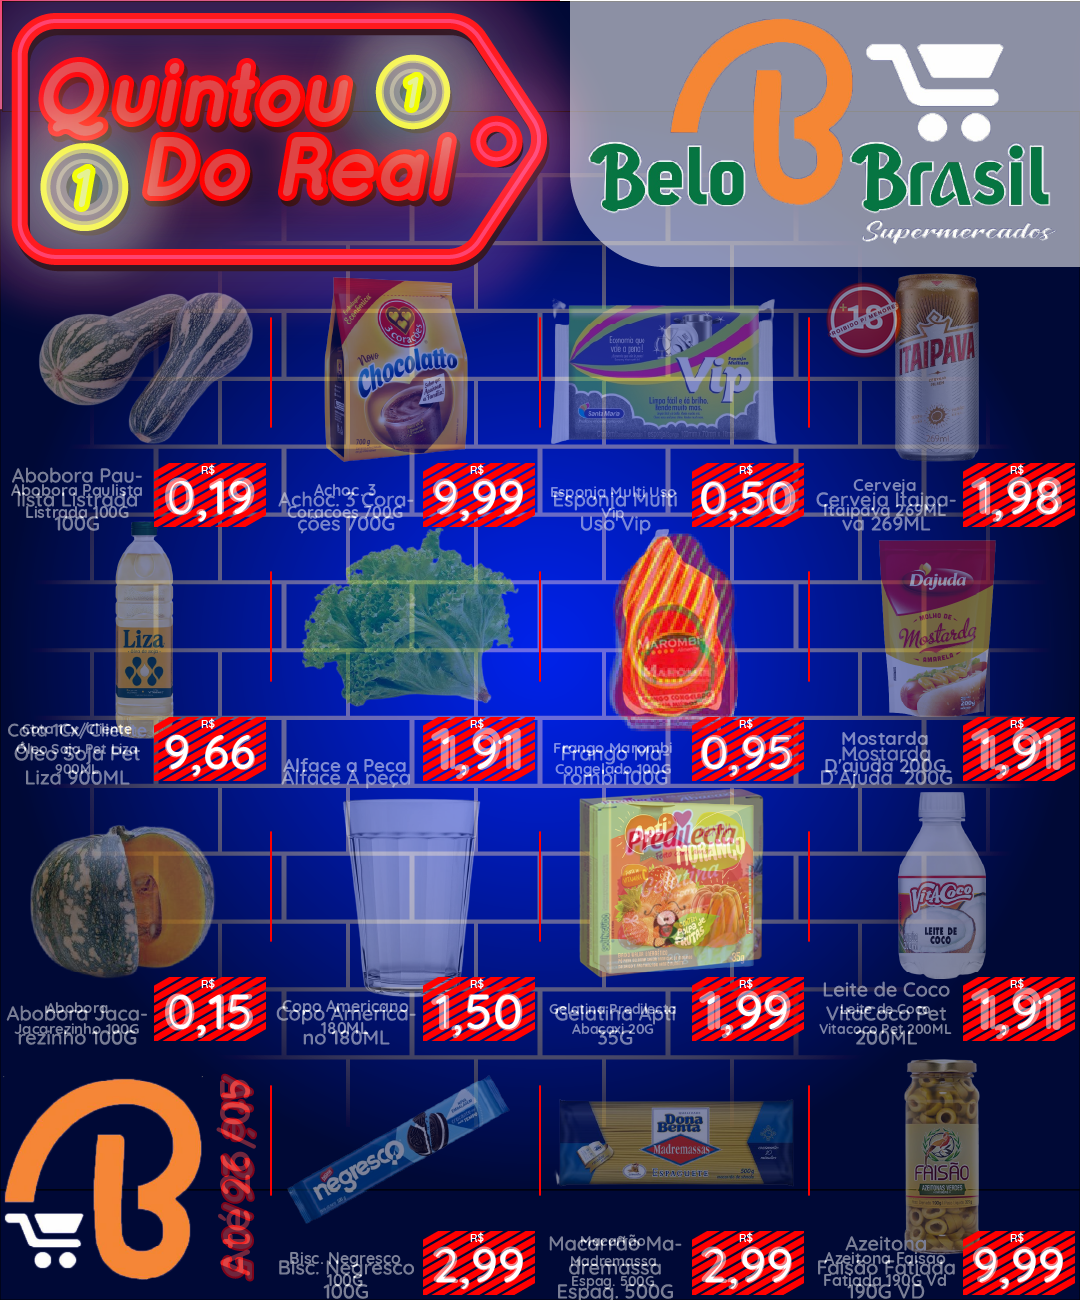
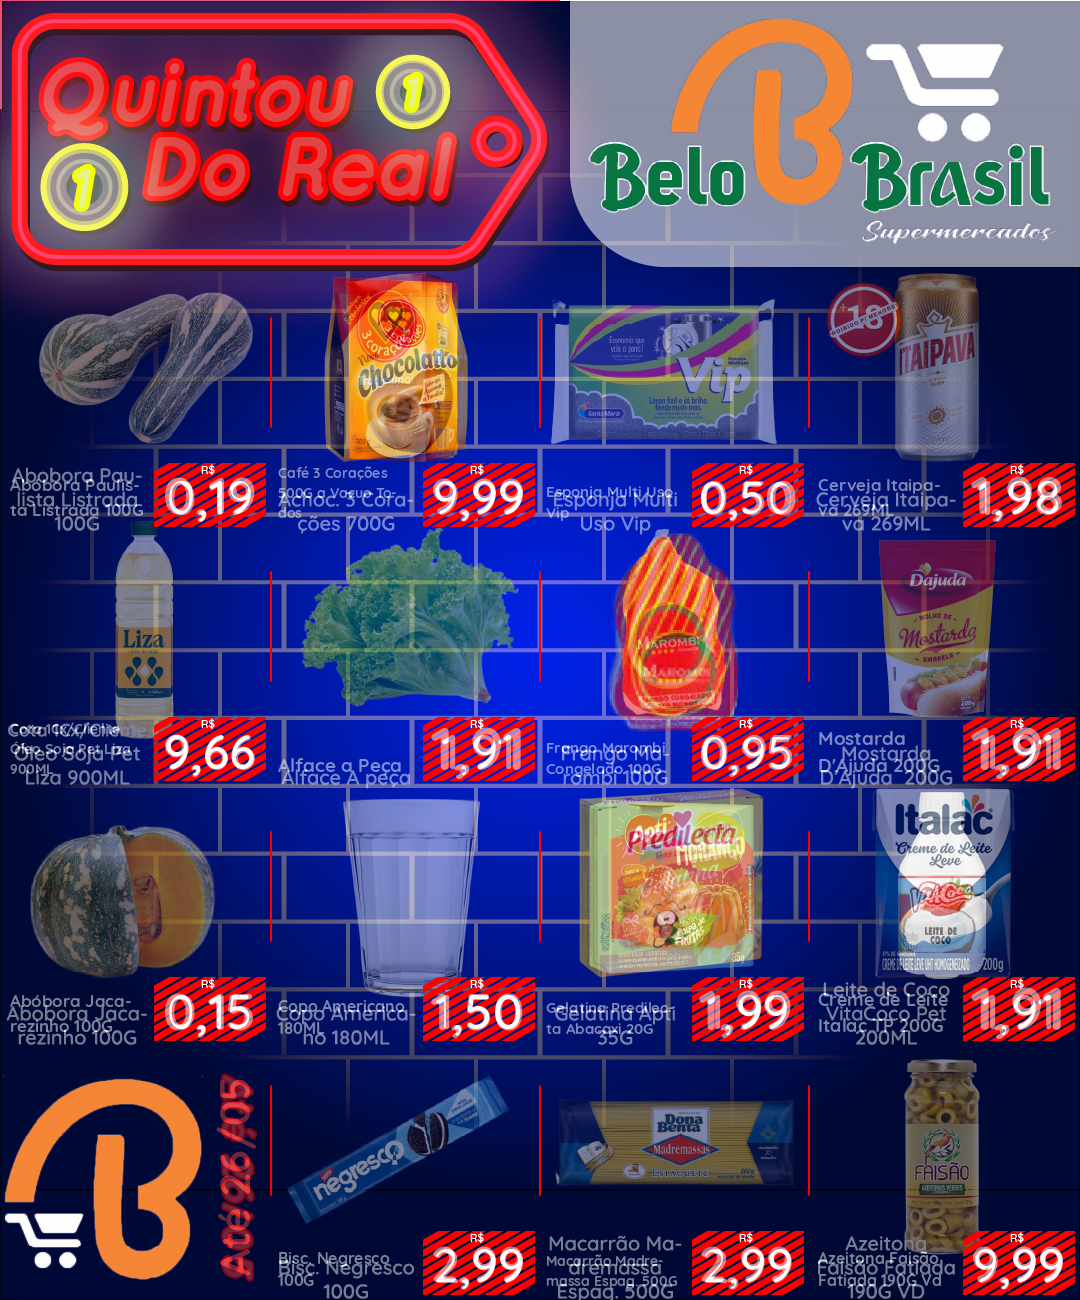
F13 ORDEM VICESIMUS-SEPTIMUS (05/08): O NOME A ESQUERDA E A ESCADA - os tres achados dos TEXTOS depois de o numero fechar, mais a ERRATA do proprio arquiteto. (§3, primeiro, porque invalida o resto) A REGUA ESTAVA TORTA: arte/quintou/ofertas_frente.txt - a transcricao a mao da peca, que alimenta a p

diff --git a/app/tests/test_vsextus.py b/app/tests/test_vsextus.py
@@ -133,6 +133,68 @@ def test_vsextus_hierarquia_nao_inverte(tmp_path, monkeypatch):
         f"a hierarquia inverteu (nome {alt_nome}px × preço {alt_preco}px)")
 
 
+# ============================================== VICESIMUS-SEPTIMUS
+# A ESCADA: cabe? desenha. Não? abrevia. Não? hifeniza. Só então reduz.
+# ==================================================================
+
+
+def test_vseptimus_a_escada_abrevia_antes_de_reduzir(tmp_path):
+    """§2: o degrau 2 existia (glossário RG-22) mas fora da cadeia —
+    a abreviação era decisão PRÉVIA (abreviava mesmo quando cabia) ou
+    nada. Agora: nome completo se couber; se não couber, o abreviado
+    do glossário entra ANTES de o corpo ceder."""
+    from app.rendering.model import (Alinhamento, AlinhamentoV, Regiao,
+                                     Retangulo, TipoRegiao)
+    from app.rendering.nome_fit import precedencia_do_nome
+
+    fontes = _fontes_reais(tmp_path)
+    nome_f = next(fontes.glob("*.ttf")).name
+    # a caixa MEDIDA que discrimina os dois (o completo não cabe nem
+    # hifenizado; o abreviado cabe) — sem ela o teste não testa nada
+    reg = Regiao(TipoRegiao.NOME, Retangulo(0, 0, 26, 11), fonte=nome_f,
+                 tamanho_max_pt=12.0, tamanho_min_pt=8.0,
+                 alinhamento=Alinhamento.ESQUERDA,
+                 alinhamento_v=AlinhamentoV.TOPO)
+    longo = "Achocolatado 3 Corações Tradicional 700 g"
+    curto = "Achoc. 3 Corações 700 g"
+    aj = precedencia_do_nome(longo, None, None, [reg], 96, fontes,
+                             nome_abreviado=curto)
+    assert aj is not None and aj.nome == curto, aj
+    # e o que CABE inteiro nunca é abreviado (a lei v4 do dono)
+    aj2 = precedencia_do_nome("Alface", None, None, [reg], 96, fontes,
+                              nome_abreviado="Alf.")
+    assert aj2 is None or aj2.nome == "Alface", aj2
+
+
+def test_vseptimus_o_quintou_hifeniza_e_alinha_a_esquerda():
+    """§1+§2: o publicado alinha o nome à ESQUERDA e HIFENIZA
+    ("Pau-lista", "Cora-ções"); o sem_hifen do T5 nasceu de ler o
+    hífen do PRÓPRIO dono como artefato."""
+    from app.rendering.encartes import layout_de_encarte
+    from app.rendering.model import Alinhamento, TipoRegiao
+
+    pacote = Path.cwd() / "Templates novos"
+    if not pacote.exists():
+        pytest.skip("REQUER ACERVO DO DONO: 'Templates novos/'")
+    lay = layout_de_encarte("quintou", pacote)
+    nomes = [r for s in lay.paginas[0].slots for r in s.regioes
+             if r.tipo == TipoRegiao.NOME and r.visivel]
+    assert nomes
+    for r in nomes:
+        assert r.alinhamento == Alinhamento.ESQUERDA, r.alinhamento
+        assert r.sem_hifen is False, "o Quintou voltou a proibir o hífen"
+
+
+def test_vseptimus_apostrofo_capitaliza_dos_dois_lados():
+    """Menor da ordem: "D'Ajuda" (a marca) virava "D'ajuda"; o
+    apóstrofo de POSSE ("Hellmann's") não é tocado."""
+    from app.core.sanitize import sanitizar
+
+    assert sanitizar("Mostarda D'Ajuda 200G").nome_sanitizado \
+        == "Mostarda D'Ajuda 200g"
+    assert "Hellmann's" in sanitizar("Hellmann's Supreme").nome_sanitizado
+
+
 def test_vsextus_preenche_caixa_sobrevive_ao_banco():
     """O flag persiste (a lição do incidente da QUINTUS: campo novo
     fora do to_dict morre no reimport)."""

diff --git a/app/rendering/nome_fit.py b/app/rendering/nome_fit.py
@@ -545,6 +545,7 @@ def precedencia_do_nome(
     fontes_dir: str | Path,
     piso_pt: float | None = None,
     marcas: tuple[str, ...] = (),
+    nome_abreviado: str | None = None,
 ) -> NomeAjustado | None:
     """A cadeia dos 6 passos para UMA célula. Devolve None quando não há
     o que decidir (sem região NOME visível, ou nome vazio) — o
@@ -572,6 +573,23 @@ def precedencia_do_nome(
     reg_img = next((r for r in regioes
                     if r.tipo == TipoRegiao.IMAGEM and r.visivel), None)
 
+    # VICESIMUS-SEPTIMUS §2 — A ESCADA, na ordem do dono: (1) cabe no
+    # corpo cheio? desenha; (2) NÃO cabe? ABREVIA pelo glossário DELE;
+    # (3) ainda não? HIFENIZA (o degrau da região, `sem_hifen=False`);
+    # (4) só então REDUZ o corpo, até o piso. Antes o app pulava do 1
+    # direto para o 4 — as duas queixas seguidas ("não coube" e "ficou
+    # pequeno") eram o mesmo defeito nas duas pontas. Aqui mora o
+    # degrau 2: a abreviação é RECURSO DE AJUSTE, nunca decisão prévia
+    # (a lei v4 do dono: informação completa SEMPRE que couber).
+    if (nome_abreviado and nome_abreviado != nome
+            and not _cabe(nome, reg_nome, reg_nome.rect, dpi, fontes_dir)
+            and _cabe(nome_abreviado, reg_nome, reg_nome.rect, dpi,
+                      fontes_dir)):
+        nome = nome_abreviado
+        abreviou = True
+    else:
+        abreviou = False
+
     # QUARTUSDECIMUS (frota): a unidade do DADO entra SEMPRE no
     # descritor de trabalho (dedupe cuida da repetição) — descritor
     # qualificador-puro com unidade só no campo não engana mais o
@@ -582,7 +600,10 @@ def precedencia_do_nome(
         # sem descritor na célula não há para onde mover (I2): a cadeia
         # é só o aviso de elipse (o Quintou/Jornal-fluxo caem aqui)
         if _cabe(nome, reg_nome, reg_nome.rect, dpi, fontes_dir):
-            return None
+            # None = "nada a decidir, use o nome do dado"; quando o
+            # degrau 2 TROCOU o nome, a troca precisa viajar (senão o
+            # abreviado morre aqui e o desenho volta ao completo)
+            return NomeAjustado(nome, descritor) if abreviou else None
         # ADENDO do dono (Quintou, 30/07): "não reduziu o tamanho dos
         # textos maiores" — sem SUBTITULO não há como encurtar; antes
         # da tesoura o PISO CEDE até o mínimo original da região (o

diff --git a/app/qt/telas/servico.py b/app/qt/telas/servico.py
@@ -750,9 +750,17 @@ def dados_para_desenho(it: "ItemMesa", abreviacoes: dict | None = None,
         arranjo = ModoArranjo(it.arranjo) if it.arranjo else ModoArranjo.LEQUE
     except ValueError:
         arranjo = ModoArranjo.LEQUE           # valor estranho: leque padrão
-    # RG-22: a abreviação vale SÓ para o desenho — banco/estante intactos
-    nome = (abreviar_para_tabloide(it.nome, abreviacoes)
-            if abreviacoes else it.nome)
+    # RG-22 → VICESIMUS-SEPTIMUS §2: a abreviação vale SÓ para o
+    # desenho (banco/estante intactos) e virou DEGRAU DA ESCADA — o
+    # nome sai COMPLETO e a cadeia do nome_fit só troca pelo abreviado
+    # quando o completo não cabe (a lei v4 do dono: informação
+    # completa SEMPRE que couber; abreviar antes de precisar era
+    # decidir por ele)
+    nome = it.nome
+    nome_abrev = (abreviar_para_tabloide(it.nome, abreviacoes)
+                  if abreviacoes else None)
+    if nome_abrev == nome:
+        nome_abrev = None
     # RG-33: os selos escolhidos do item viram selos_extra do passe final
     extras = selos_do_item(it.selos, registro_selos) if it.selos else []
     # RG-34: item com validade cadastrada ganha "De olho na validade"
@@ -816,6 +824,7 @@ def dados_para_desenho(it: "ItemMesa", abreviacoes: dict | None = None,
         descritor=descritor,                 # F13-BIS/T2
         desconto_pct=getattr(it, "desconto_pct", None),   # Q2
         marcas_nome=marcas_nome,             # v2: a hierarquia canônica
+        nome_abreviado=nome_abrev,           # SEPTIMUS: o degrau 2
         sabores=tuple(getattr(it, "sabores", None) or ()),   # v3
         categoria=it.categoria,          # F8.2: as seções derivam daqui
         # RG-34: o de/até já vem como frase completa ("OFERTA VÁLIDA DE …");

diff --git a/app/rendering/compositor.py b/app/rendering/compositor.py
@@ -96,6 +96,10 @@ class DadosProduto:
     # tem SUBTITULO ("Leite Integral" grande + "Parmalat · 1L"). Vazio
     # = comportamento de sempre (testes/latitude antigos intactos).
     marcas_nome: tuple[str, ...] = ()
+    # VICESIMUS-SEPTIMUS §2: o nome pelo GLOSSÁRIO do dono — degrau 2
+    # da escada (só entra quando o completo NÃO cabe; a lei v4 manda
+    # informação completa sempre que couber)
+    nome_abreviado: str | None = None
     # v3: os SABORES declarados viajam também COMO LISTA (não só
     # dissolvidos na prosa do descritor) — o pré-voo compara com as
     # fotos e acusa "anuncia 3 sabores, só 1 tem foto" (a Sardinha)
@@ -1805,7 +1809,8 @@ def compor_pagina(
         aj_nome = precedencia_do_nome(d.nome, d.descritor, d.unidade,
                                       regioes_cel, dpi_ef, fontes_dir,
                                       piso_pt=piso_nome,
-                                      marcas=d.marcas_nome)
+                                      marcas=d.marcas_nome,
+                                      nome_abreviado=d.nome_abreviado)
         rects_subst: dict = dict(rects_foto)
         if aj_nome is not None:
             d = _replace(d, nome=aj_nome.nome, descritor=aj_nome.descritor,

diff --git a/app/rendering/encartes.py b/app/rendering/encartes.py
@@ -1022,9 +1022,17 @@ def _celula_quintou(x: float, y: float) -> list:
     # QUINTUS/C6: arte carregada — o produto NUNCA se repete aqui
     # (exceção DECLARADA da L19; o trio poluía o tijolo azul)
     im.sem_leque = True
+    # VICESIMUS-SEPTIMUS §1: o nome do publicado é alinhado à ESQUERDA
+    # (há uma borda esquerda ÚNICA descendo a coluna; centrado, cada
+    # nome flutuava no próprio centro — o "estranho" que o dono viu).
+    # §2: e HIFENIZA ("Pau-lista", "Cora-ções", "Itaipa-va") — o
+    # sem_hifen do T5 nasceu de ler o hífen do PRÓPRIO dono como
+    # artefato; com ele o corpo era a única saída e o texto encolhia.
     nm = _nome(x + 10, y + 192, 134, 62, fonte=_F_QUICK,
+               alin=Alinhamento.ESQUERDA,
                tam=14.5, tam_min=9.5, cor=branco)
     nm.unidade_caixa_alta = True
+    nm.sem_hifen = False
     # SEXTUS/L24: a região do preço é o CARIMBO INTEIRO do fundo
     # (bbox real 112×64 medido no template, rel 154,193) e o corpo do
     # número é CALCULADO para preenchê-lo — nunca por tamanho_max_pt

diff --git a/app/core/sanitize.py b/app/core/sanitize.py
@@ -224,7 +224,14 @@ def _titulo(token: str, regras: RegrasSanitizacao) -> str:
         return token
     if token[0].isdigit():         # tokens de peso (5kg, 1L, 2x1) ficam intactos
         return token
-    return token[0].upper() + token[1:].lower()
+    base = token[0].upper() + token[1:].lower()
+    # VICESIMUS-SEPTIMUS: nome próprio com APÓSTROFO capitaliza dos dois
+    # lados — "D'Ajuda" (a marca do dono) virava "D'ajuda"; a régua é
+    # conservadora: só o prefixo de UMA letra, o padrão do português
+    # (d'/D'), nunca "Hellmann's" (o apóstrofo no fim é posse)
+    if len(base) > 2 and base[1] == "'" and base[2].isalpha():
+        base = base[:2] + base[2].upper() + base[3:]
+    return base
 
 
 def _expandir_glossario(texto: str, regras: RegrasSanitizacao) -> str:

diff --git a/docs/ORDEM_F13_VICESIMUS_SEPTIMUS_O_NOME_E_A_ESCADA.md b/docs/ORDEM_F13_VICESIMUS_SEPTIMUS_O_NOME_E_A_ESCADA.md
@@ -1,0 +1,109 @@
+# ORDEM F13-VICESIMUS-SEPTIMUS - O NOME A ESQUERDA E A ESCADA
+
+(Os tres achados do arquiteto sobre os TEXTOS, apos o numero fechar:
+o nome centrado x a esquerda; a escada que falta - abrevia, hifeniza,
+so entao reduz; e a ERRATA dele mesmo: a regua da prova estava sem
+acento e o app desenhava fiel. Mais a declaracao das fotos ausentes.)
+
+---
+
+# RESPOSTA DO BUILDER (05/08/2026)
+
+## §3 primeiro — a régua consertada (a errata do arquiteto)
+
+`arte/quintou/ofertas_frente.txt` era a transcrição à mão da peça e
+estava **sem acento** ("Coracoes", "Abobora", "Oleo") e com dois
+desvios de grafia ("D'ajuda", "Alface A peca"). O app desenhava fiel
+ao que recebia — o defeito era da régua, e régua com erro invalida o
+veredito. Conferida caractere a caractere contra a peça e corrigida
+(acentos, "A peça", "D'Ajuda", unidade em CAIXA ALTA como no
+publicado). A errata está escrita no cabeçalho do próprio arquivo,
+para nenhuma rodada futura repetir a comparação com a régua torta.
+
+## §1 — o nome à ESQUERDA
+
+`_celula_quintou` alinhava o nome ao CENTRO: cada nome flutuava no
+próprio centro e a coluna perdia a borda esquerda única do publicado.
+Agora `Alinhamento.ESQUERDA` — a mesma discussão do Jornal com a
+resposta invertida, porque aqui **o original manda** (L23).
+
+## §2 — A ESCADA (o defeito nas duas pontas)
+
+As duas queixas seguidas do dono ("não estava cabendo" → "ficou
+pequeno") eram o mesmo defeito: o app pulava do degrau 1 direto para o
+4. Os degraus 2 e 3 existiam e estavam fora da cadeia:
+
+- **degrau 3 (hifenizar)** existia desde a RG-13 (hifenização de
+  aproveitamento, com dicionário) — mas o Quintou nascia com
+  `sem_hifen=True`. Essa trava (F13-BIS/T5) nasceu de o builder ver
+  "CERVEJA ITAPA-VA" e chamar de artefato: **era o hífen do PRÓPRIO
+  dono**, que hifeniza "Pau-lista", "Cora-ções", "Itaipa-va". Mais uma
+  régua inventada contra o publicado — desligada.
+- **degrau 2 (abreviar)** existia (glossário RG-22 da Config) mas como
+  decisão PRÉVIA: abreviava tudo sempre que a Config tivesse
+  vocabulário, mesmo quando o nome completo cabia. Agora é RECURSO DE
+  AJUSTE: `DadosProduto.nome_abreviado` viaja ao lado do completo e a
+  cadeia (`precedencia_do_nome`) só troca quando o completo NÃO cabe —
+  exatamente a lei v4 do dono ("informação completa SEMPRE" que
+  couber).
+
+A ordem final: **cabe no corpo cheio? desenha. Não? abrevia pelo
+glossário dele. Ainda não? hifeniza. Só então reduz o corpo, até o
+piso.**
+
+## §4 — o relatório DECLARA as fotos ausentes (I2)
+
+A prova agora imprime a contagem e NOMEIA cada linha sem foto no
+acervo. Na edição da referência: **15 linhas, 2 com foto, 13 sem** —
+o acervo de hoje não tem os produtos de 26/05 (abóbora, esponja Vip,
+Itaipava, copo americano…). Para a sobreposição isso é legítimo (a
+geometria é o que se compara), mas nunca mais sai calado.
+
+## Os menores
+
+- **D'Ajuda**: o `_titulo` do sanitize capitalizava só a 1ª letra e
+  "D'Ajuda" virava "D'ajuda". Agora o apóstrofo de PREFIXO (uma letra
+  + apóstrofo — o padrão do português) capitaliza dos dois lados;
+  o apóstrofo de POSSE ("Hellmann's") continua intocado.
+- **"100G" × "100g"**: era a régua (o txt trazia "100G" em umas linhas
+  e o sanitize canoniza para minúsculo); com `unidade_caixa_alta` na
+  região, TODAS saem em caixa alta na página — consistente agora.
+- **"Alface A peça" → "Alface a Peça"**: a regra de artigo minúsculo
+  no meio do nome é geral e correta; "A peça" é NOTAÇÃO DE VENDA do
+  dono (irmã do "À 100g SÓ" das carnes, §115 da ordem anterior).
+  Não inventei exceção — as duas notações ficam NOMEADAS para ele
+  decidir (a Config `sanitizacao` aceita o vocabulário dele).
+
+## Guardiões novos (3, em test_vsextus.py)
+
+- a escada abrevia ANTES de reduzir (caixa MEDIDA que discrimina os
+  dois; e o que cabe inteiro nunca é abreviado);
+- o Quintou alinha à esquerda E permite hífen (a mutação que devolve
+  `sem_hifen=True` ou o CENTRO deixa vermelho);
+- apóstrofo capitaliza dos dois lados, posse intocada.
+
+## Incidente de bancada (honestidade)
+
+O degrau 2 nasceu mudo: quando a cadeia trocava pelo abreviado no ramo
+sem-SUBTITULO, ela devolvia `None` — que significa "nada a decidir,
+use o nome do dado" — e o abreviado morria antes de chegar ao desenho.
+Pego pelo próprio guardião (que primeiro falhou por dado fraco: com
+hifenização o nome longo cabia na caixa que escolhi; recalibrei a
+caixa MEDINDO os dois casos, em vez de chutar).
+
+## Nota sobre o método (a nota final do arquiteto)
+
+Ele registrou que duas vezes quase reportou defeito inexistente (o
+acento e os 64px) e que a diferença era do instrumento dele. Vale
+para os dois lados: nesta rodada meu guardião também "falhou" por
+instrumento (a caixa do teste), não por motor. A régua se confere
+antes de acusar — de qualquer lado da dupla.
+
+## O que ficou de fora (nomeado)
+
+- As notações de venda do dono ("A peça", "À 100g SÓ") — decisão dele;
+- C3 pleno nos outros encartes (a escada está no MOTOR e vale para
+  todos, mas só o Quintou teve `sem_hifen` desligado: cada encarte se
+  confere contra a referência dele antes — L23/L24);
+- C4 halos, C11 correção-avisa, C12 legais, abreviações na Config.
+
